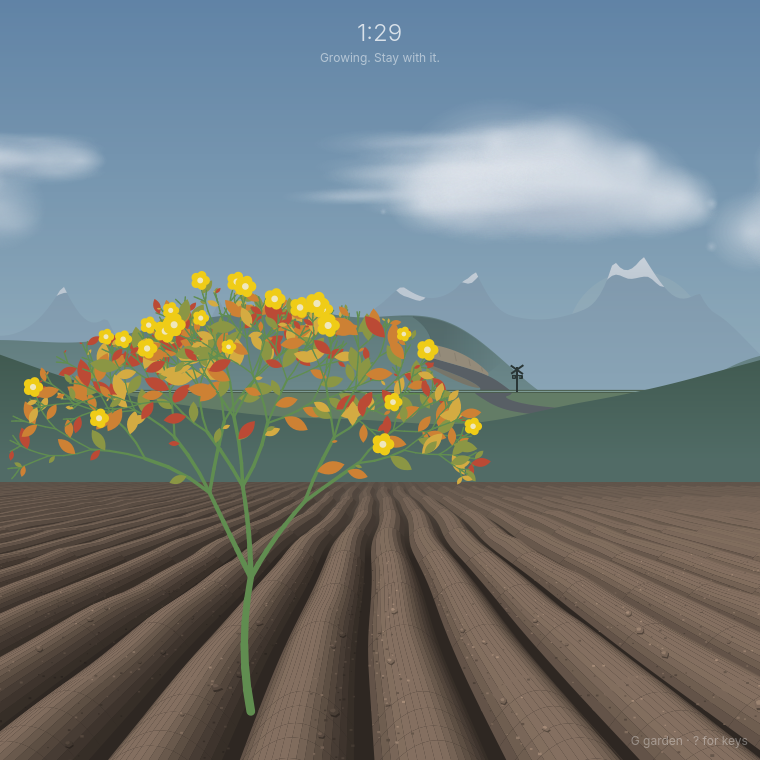
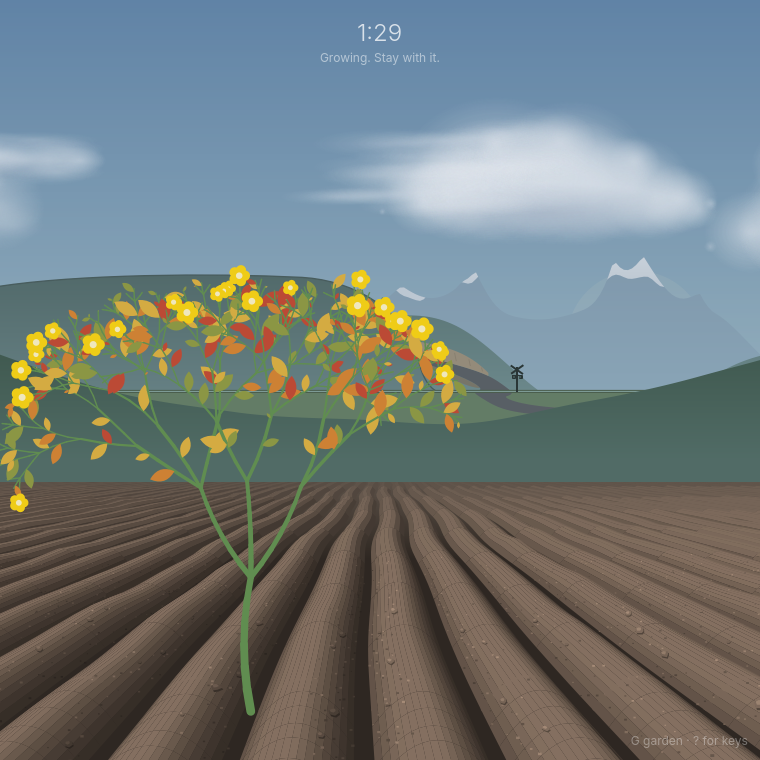
Hide the far road behind a nearer hill, as sketched

Changed region(s): [[0.0, 0.3329, 0.6355, 0.7566]]

diff --git a/src/Train.qml b/src/Train.qml
@@ -244,83 +244,43 @@ Item {
                 ctx.lineTo(topPt.x + (footPt.x - topPt.x) * 0.7 + 1, topPt.y + (footPt.y - topPt.y) * 0.75)
                 ctx.stroke()
             }
-            // The hillside above the cut lies farther up the slope and turns a
-            // little away from us, so it is a shade darker than the slope below
-            // the road. It runs up to the skyline of the ridge.
-            function hash(i, seed) {
-                var v = Math.sin(i * 127.1 + seed * 311.7) * 43758.5453
-                return v - Math.floor(v)
-            }
-            function noise(v, seed) {
-                var i = Math.floor(v), f = v - i
-                var u = f * f * (3 - 2 * f)
-                return hash(i, seed) * (1 - u) + hash(i + 1, seed) * u
-            }
-            // The same ridge line as the hills draw (Hills.qml, mid()).
-            function ridgeY(px) {
-                var u = px / W
-                var shoulder = (u - 0.6) / 0.12
-                var rise = H * (0.035 + 0.15 * noise(u * 2.6 + 5, 4)) + H * 0.025 * noise(u * 8.2, 5)
-                           + H * 0.07 * Math.exp(-shoulder * shoulder)
-                return H * root.horizon - rise
-            }
+            // A nearer hill stands on the left, taller than the one the road
+            // climbs. Its top runs off the left edge; its right flank comes
+            // steeply down across the farther hill and the road's last stretch,
+            // so the road passes out of sight behind it. Being nearer, it is
+            // darker and less hazy than the hill behind.
             var bend = curve(far0, far1, far2, far3, 0.86)
-            var span = H * 0.034
-            // The edge of the shoulder: a rounded hill seen from here shows a
-            // convex edge, bulging toward us, from the skyline down across the
-            // road's last stretch. The road wraps round the outside of it and
-            // passes out of sight behind.
-            var foldTop = { x: bend.x - W * 0.004, y: ridgeY(bend.x - W * 0.004) + 1 }
-            var fold3 = { x: bend.x - W * 0.008, y: bend.y + span * 0.6 }
-            var fold1 = { x: bend.x + W * 0.03, y: foldTop.y + (fold3.y - foldTop.y) * 0.3 }
-            var fold2 = { x: bend.x + W * 0.03, y: foldTop.y + (fold3.y - foldTop.y) * 0.78 }
-            function traceFold() {
-                ctx.bezierCurveTo(fold1.x, fold1.y, fold2.x, fold2.y, fold3.x, fold3.y)
-            }
-
-            // The slope above the cut, darker, fading out toward the crossing so
-            // it has no edge there; its left side is hidden under the flank.
-            var leftX = bend.x - W * 0.02, rightX = cutTop[0].x
-            var shade = ctx.createLinearGradient(rightX - W * 0.06, 0, rightX + W * 0.02, 0)
-            shade.addColorStop(0, Qt.rgba(0.02, 0.03, 0.03, 0.15))
-            shade.addColorStop(1, Qt.rgba(0.02, 0.03, 0.03, 0))
-            ctx.fillStyle = shade
-            ctx.beginPath()
-            ctx.moveTo(cutTop[0].x, cutTop[0].y)
-            for (var d2 = 1; d2 < cutTop.length; d2++)
-                ctx.lineTo(cutTop[d2].x, cutTop[d2].y)
-            ctx.lineTo(leftX, cutTop[cutTop.length - 1].y)
-            for (var sx = leftX; sx <= rightX + W * 0.02; sx += 3)
-                ctx.lineTo(sx, ridgeY(sx) + 1)
-            ctx.closePath()
-            ctx.fill()
-
-            // Where the road curves around the shoulder, the near flank of the
-            // hill comes across it, and it passes out of sight. The flank runs
-            // up to the skyline, coloured exactly as the hillside around it:
-            // fading toward the sky colour at its foot, as the ridges are painted.
             var y0 = H * root.horizon
-            var flank = ctx.createLinearGradient(0, y0 - H * 0.2, 0, y0 + 2)
-            flank.addColorStop(0, root.hillColor)
-            flank.addColorStop(1, Qt.rgba(root.hillColor.r + (root.hazeColor.r - root.hillColor.r) * 0.4,
-                                          root.hillColor.g + (root.hazeColor.g - root.hillColor.g) * 0.4,
-                                          root.hillColor.b + (root.hazeColor.b - root.hillColor.b) * 0.4, 1))
-            ctx.fillStyle = flank
-            var farLeft = bend.x - W * 0.08
+            var crest = y0 - H * 0.235
+            var shoulderX = bend.x - W * 0.15
+            var near = ctx.createLinearGradient(0, crest, 0, cy)
+            var nearTop = Qt.darker(root.hillColor, 1.12)
+            near.addColorStop(0, nearTop)
+            near.addColorStop(1, Qt.rgba(nearTop.r + (root.hazeColor.r - nearTop.r) * 0.25,
+                                         nearTop.g + (root.hazeColor.g - nearTop.g) * 0.25,
+                                         nearTop.b + (root.hazeColor.b - nearTop.b) * 0.25, 1))
+            function nearHillOutline() {
+                ctx.moveTo(-2, crest + H * 0.012)
+                // A broad rounded top, a little uneven.
+                ctx.bezierCurveTo(W * 0.1, crest - H * 0.004, shoulderX - W * 0.12, crest - H * 0.006, shoulderX, crest)
+                // The flank: rounding over, then steep, down to the road's end.
+                ctx.bezierCurveTo(shoulderX + W * 0.07, crest + H * 0.004,
+                                  bend.x - W * 0.012, bend.y - H * 0.06,
+                                  bend.x + W * 0.004, bend.y + H * 0.008)
+                // Its foot reaches the valley floor just beyond the road.
+                ctx.quadraticCurveTo(bend.x + W * 0.012, cy - H * 0.006, bend.x + W * 0.03, cy + 1)
+            }
+            ctx.fillStyle = near
             ctx.beginPath()
-            ctx.moveTo(foldTop.x, foldTop.y)
-            traceFold()
-            ctx.lineTo(farLeft, fold3.y)
-            for (var fx = farLeft; fx <= foldTop.x; fx += 3)
-                ctx.lineTo(fx, ridgeY(fx) + 1)
+            nearHillOutline()
+            ctx.lineTo(-2, cy + 1)
             ctx.closePath()
             ctx.fill()
-            // A soft shadow along the fold.
-            ctx.strokeStyle = Qt.darker(root.hillColor, 1.12)
-            ctx.lineWidth = Math.max(1, H * 0.002)
+            // A faint line where the near hill's edge stands against the far one.
+            ctx.strokeStyle = Qt.darker(nearTop, 1.15)
+            ctx.lineWidth = Math.max(1, H * 0.0018)
             ctx.beginPath()
-            ctx.moveTo(foldTop.x, foldTop.y)
-            traceFold()
+            nearHillOutline()
             ctx.stroke()
             // Ballast, then a rail catching what light there is on top of it.
             line()

diff --git a/src/main.cpp b/src/main.cpp
@@ -22,7 +22,7 @@
 int main(int argc, char *argv[]) {
     QGuiApplication app(argc, argv);
     app.setApplicationName("grove");
-    app.setApplicationVersion("0.6.3");
+    app.setApplicationVersion("0.6.4");
 
     // Matches the window to grove.desktop, so the compositor (Wayland app_id)
     // and the launcher pick up the installed icon.
